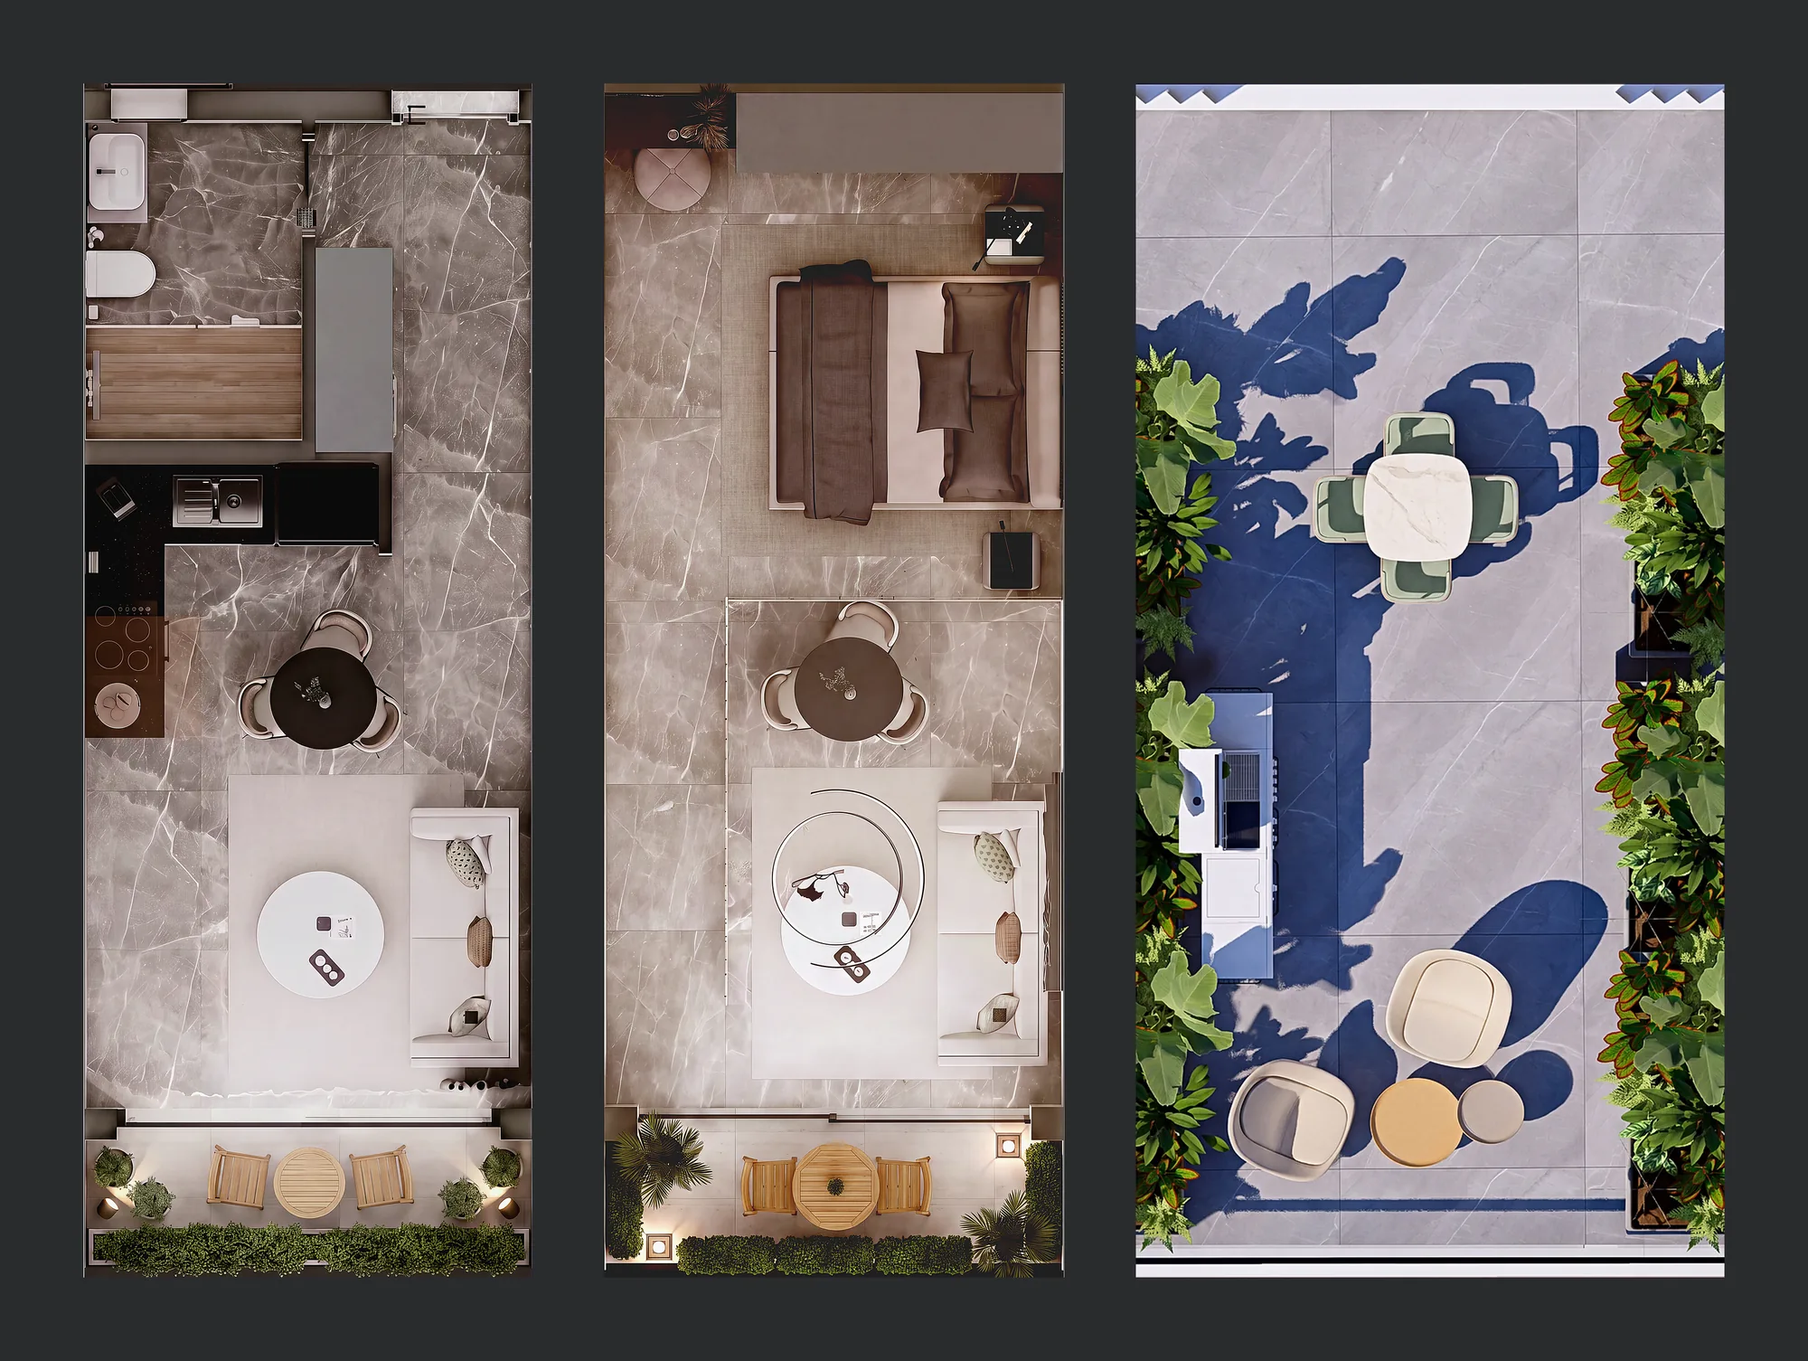
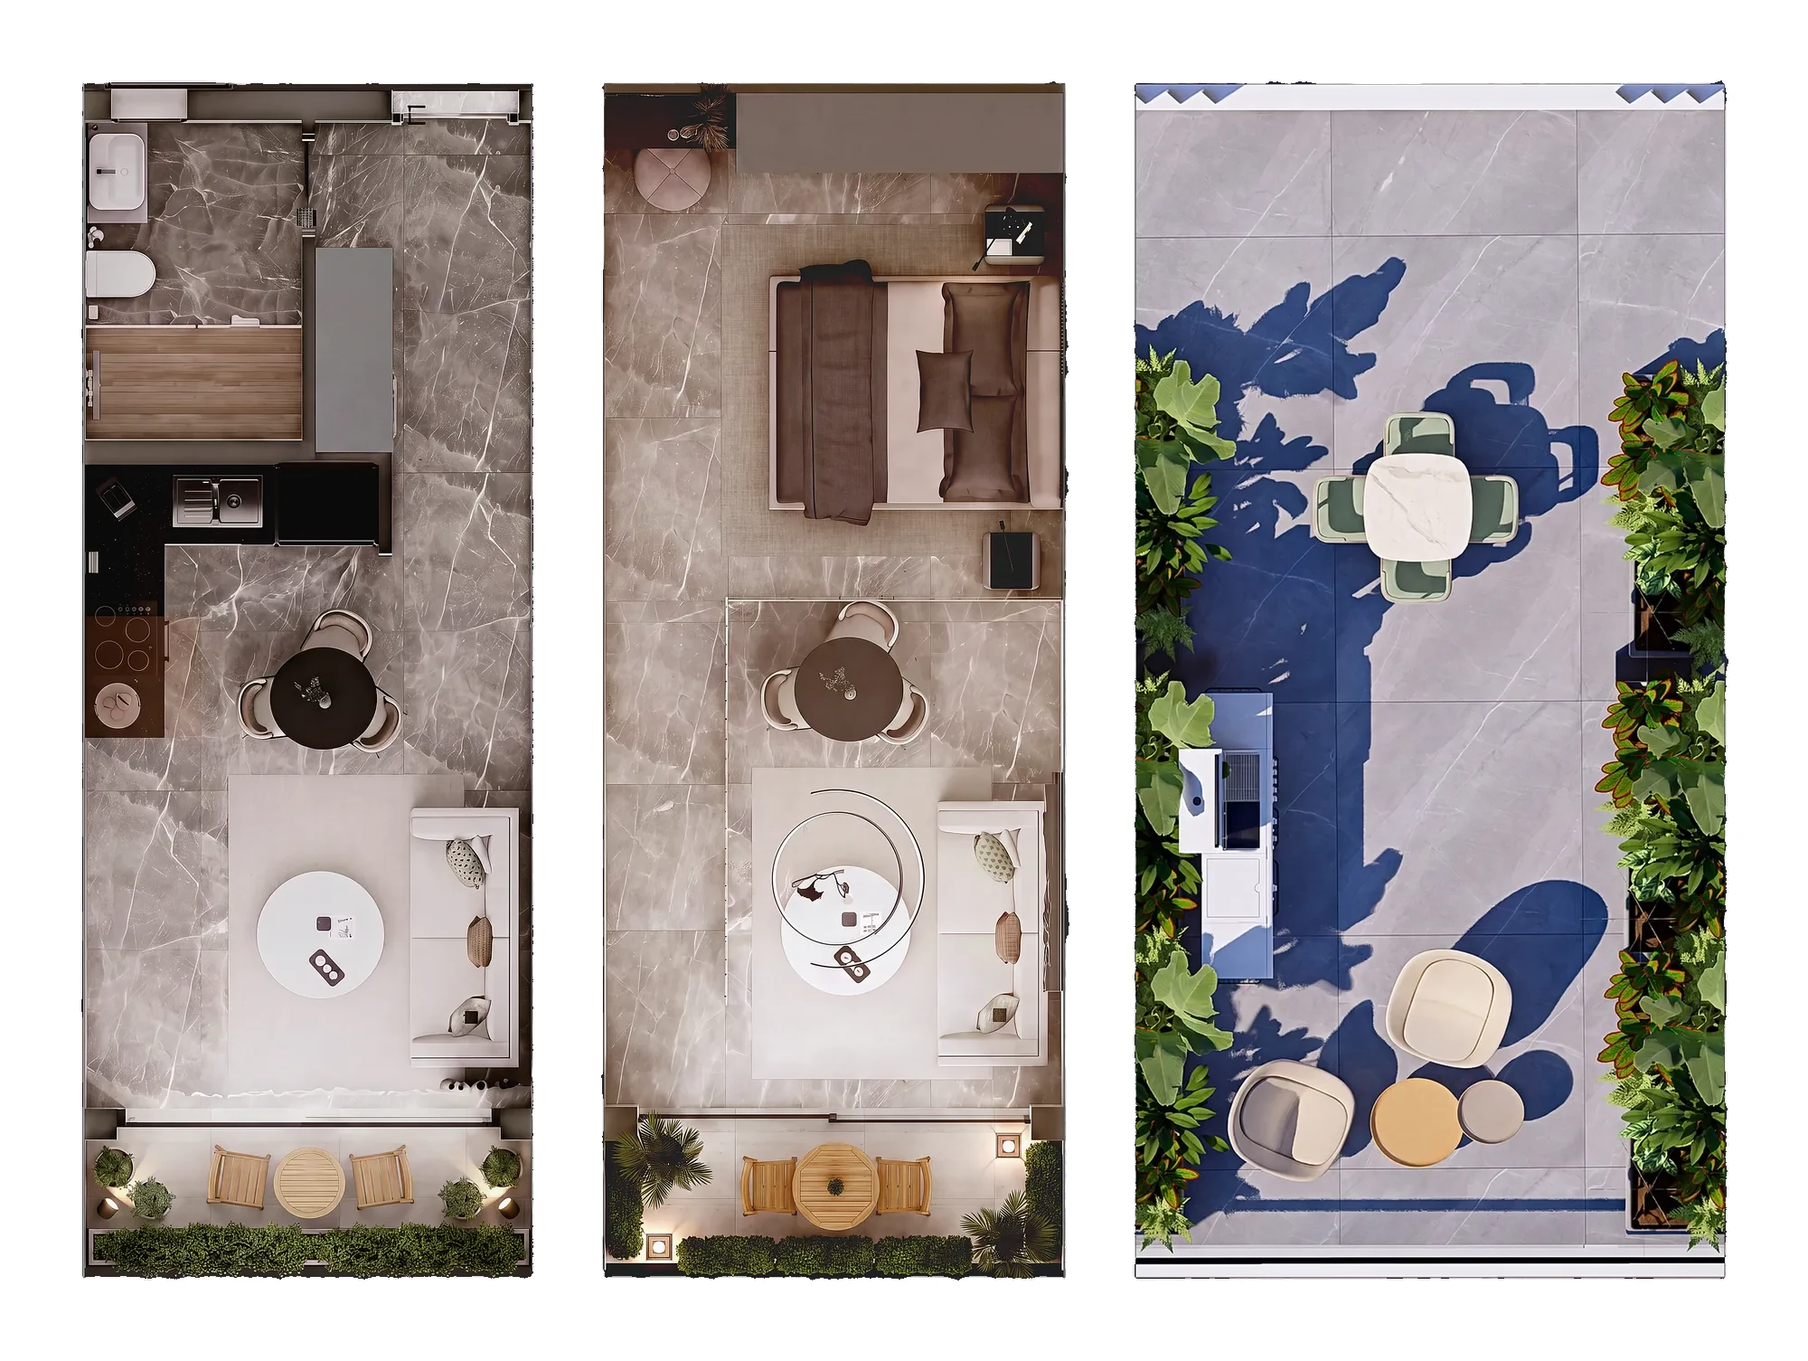
Proje sayfaları tek dil: aynı renkler, aynı boyutlar, aynı kat planı kutusu
- Kartlar (öne çıkan bilgiler, olanaklar): mercan çeşitleme kaldırıldı; simge, köşe ışığı ve alt çizgi her kartta turkuaz, değer her kartta koyu (değerlerin yarısı turkuaz yarısı koyuydu). Öne çıkan bilgilerde değer alanı iki satır yer tutar: uzun değer sarınca kart boyu projeden projeye değişmez
- Genel bakış madde imleri ve etiketler, konum mesafeleri ve güncelleme maddeleri tek renk (dönüşümlü mercan yok); 'devam ediyor' durum noktası anlamı için mercan kaldı
- Kat planları: bütün projelerde beyaz kutu. Lagoon Verde plan görsellerinin koyu zemini beyaza çevrildi (dış hat kapatılıp boşluklar dolduruldu, kenarlar harmanlandı); PlanVariant.tone='dark' kaldırıldı
- Kat planı bölümü masaüstünde her projede 645 px (Lagoon Verde 541, Perla II 707 idi); 8 satırdan uzun tablolar sık dizilir

Changed region(s): [[0.0, 0.0, 1.0, 1.0]]

diff --git a/lib/azure/projects/lagoon-verde.tsx b/lib/azure/projects/lagoon-verde.tsx
@@ -143,7 +143,6 @@ export const LAGOON_VERDE: ProjectData = {
             {
               name: "Studio Residence",
               image: "/azure/interiors/lagoon-verde/plans/studio.webp",
-              tone: "dark",
               areas: [
                 { label: "Oturma Odası", value: "29,36 m²" },
                 { label: "WC - Banyo", value: "5,48 m²" },
@@ -171,7 +170,6 @@ export const LAGOON_VERDE: ProjectData = {
             {
               name: "Loft Residence",
               image: "/azure/interiors/lagoon-verde/plans/loft.webp",
-              tone: "dark",
               areas: [
                 { label: "Oturma Odası", value: "25,57 m²" },
                 { label: "WC - Banyo", value: "5,48 m²" },
@@ -200,7 +198,6 @@ export const LAGOON_VERDE: ProjectData = {
             {
               name: "Roof Residence",
               image: "/azure/interiors/lagoon-verde/plans/roof.webp",
-              tone: "dark",
               areas: [
                 { label: "Oturma Odası", value: "33,35 m²" },
                 { label: "WC - Banyo", value: "4,77 m²" },
@@ -233,7 +230,6 @@ export const LAGOON_VERDE: ProjectData = {
             {
               name: "Garden Residence",
               image: "/azure/interiors/lagoon-verde/plans/garden.webp",
-              tone: "dark",
               areas: [
                 { label: "Oturma Odası", value: "37,42 m²" },
                 { label: "WC - Banyo", value: "5,15 m²" },
@@ -450,7 +446,6 @@ export const LAGOON_VERDE: ProjectData = {
             {
               name: "Studio Residence",
               image: "/azure/interiors/lagoon-verde/plans/studio.webp",
-              tone: "dark",
               areas: [
                 { label: "Living Room", value: "29.36 m²" },
                 { label: "WC - Bathroom", value: "5.48 m²" },
@@ -478,7 +473,6 @@ export const LAGOON_VERDE: ProjectData = {
             {
               name: "Loft Residence",
               image: "/azure/interiors/lagoon-verde/plans/loft.webp",
-              tone: "dark",
               areas: [
                 { label: "Living Room", value: "25.57 m²" },
                 { label: "WC - Bathroom", value: "5.48 m²" },
@@ -507,7 +501,6 @@ export const LAGOON_VERDE: ProjectData = {
             {
               name: "Roof Residence",
               image: "/azure/interiors/lagoon-verde/plans/roof.webp",
-              tone: "dark",
               areas: [
                 { label: "Living Room", value: "33.35 m²" },
                 { label: "WC - Bathroom", value: "4.77 m²" },
@@ -540,7 +533,6 @@ export const LAGOON_VERDE: ProjectData = {
             {
               name: "Garden Residence",
               image: "/azure/interiors/lagoon-verde/plans/garden.webp",
-              tone: "dark",
               areas: [
                 { label: "Living Room", value: "37.42 m²" },
                 { label: "WC - Bathroom", value: "5.15 m²" },
@@ -757,7 +749,6 @@ export const LAGOON_VERDE: ProjectData = {
             {
               name: "Studio Residence",
               image: "/azure/interiors/lagoon-verde/plans/studio.webp",
-              tone: "dark",
               areas: [
                 { label: "Wohnzimmer", value: "29,36 m²" },
                 { label: "WC - Bad", value: "5,48 m²" },
@@ -785,7 +776,6 @@ export const LAGOON_VERDE: ProjectData = {
             {
               name: "Loft Residence",
               image: "/azure/interiors/lagoon-verde/plans/loft.webp",
-              tone: "dark",
               areas: [
                 { label: "Wohnzimmer", value: "25,57 m²" },
                 { label: "WC - Bad", value: "5,48 m²" },
@@ -814,7 +804,6 @@ export const LAGOON_VERDE: ProjectData = {
             {
               name: "Roof Residence",
               image: "/azure/interiors/lagoon-verde/plans/roof.webp",
-              tone: "dark",
               areas: [
                 { label: "Wohnzimmer", value: "33,35 m²" },
                 { label: "WC - Bad", value: "4,77 m²" },
@@ -847,7 +836,6 @@ export const LAGOON_VERDE: ProjectData = {
             {
               name: "Garden Residence",
               image: "/azure/interiors/lagoon-verde/plans/garden.webp",
-              tone: "dark",
               areas: [
                 { label: "Wohnzimmer", value: "37,42 m²" },
                 { label: "WC - Bad", value: "5,15 m²" },
@@ -1064,7 +1052,6 @@ export const LAGOON_VERDE: ProjectData = {
             {
               name: "Studio Residence",
               image: "/azure/interiors/lagoon-verde/plans/studio.webp",
-              tone: "dark",
               areas: [
                 { label: "Гостиная", value: "29,36 m²" },
                 { label: "Санузел", value: "5,48 m²" },
@@ -1092,7 +1079,6 @@ export const LAGOON_VERDE: ProjectData = {
             {
               name: "Loft Residence",
               image: "/azure/interiors/lagoon-verde/plans/loft.webp",
-              tone: "dark",
               areas: [
                 { label: "Гостиная", value: "25,57 m²" },
                 { label: "Санузел", value: "5,48 m²" },
@@ -1121,7 +1107,6 @@ export const LAGOON_VERDE: ProjectData = {
             {
               name: "Roof Residence",
               image: "/azure/interiors/lagoon-verde/plans/roof.webp",
-              tone: "dark",
               areas: [
                 { label: "Гостиная", value: "33,35 m²" },
                 { label: "Санузел", value: "4,77 m²" },
@@ -1154,7 +1139,6 @@ export const LAGOON_VERDE: ProjectData = {
             {
               name: "Garden Residence",
               image: "/azure/interiors/lagoon-verde/plans/garden.webp",
-              tone: "dark",
               areas: [
                 { label: "Гостиная", value: "37,42 m²" },
                 { label: "Санузел", value: "5,15 m²" },
@@ -1371,7 +1355,6 @@ export const LAGOON_VERDE: ProjectData = {
             {
               name: "Studio Residence",
               image: "/azure/interiors/lagoon-verde/plans/studio.webp",
-              tone: "dark",
               areas: [
                 { label: "Salon", value: "29,36 m²" },
                 { label: "WC - łazienka", value: "5,48 m²" },
@@ -1399,7 +1382,6 @@ export const LAGOON_VERDE: ProjectData = {
             {
               name: "Loft Residence",
               image: "/azure/interiors/lagoon-verde/plans/loft.webp",
-              tone: "dark",
               areas: [
                 { label: "Salon", value: "25,57 m²" },
                 { label: "WC - łazienka", value: "5,48 m²" },
@@ -1428,7 +1410,6 @@ export const LAGOON_VERDE: ProjectData = {
             {
               name: "Roof Residence",
               image: "/azure/interiors/lagoon-verde/plans/roof.webp",
-              tone: "dark",
               areas: [
                 { label: "Salon", value: "33,35 m²" },
                 { label: "WC - łazienka", value: "4,77 m²" },
@@ -1461,7 +1442,6 @@ export const LAGOON_VERDE: ProjectData = {
             {
               name: "Garden Residence",
               image: "/azure/interiors/lagoon-verde/plans/garden.webp",
-              tone: "dark",
               areas: [
                 { label: "Salon", value: "37,42 m²" },
                 { label: "WC - łazienka", value: "5,15 m²" },

diff --git a/app/components/azure/project/cards.css b/app/components/azure/project/cards.css
@@ -9,22 +9,22 @@
 }
 /* köşede yumuşak renk ışığı (görselin üstünde değil, kart zemininde); üzerine gelince büyür */
 .az-fact::before { content: ""; position: absolute; right: -60px; top: -60px; width: 200px; height: 200px; border-radius: 50%; background: radial-gradient(circle, rgba(42, 169, 179, .2), transparent 68%); z-index: -1; transition: transform .9s var(--ease); }
-.az-fact.coral::before { background: radial-gradient(circle, rgba(241, 92, 52, .16), transparent 68%); }
 /* alt çizgi: belirince kısmen, üzerine gelince tam dolar */
 .az-fact::after { content: ""; position: absolute; left: clamp(20px, 2.2vw, 28px); right: clamp(20px, 2.2vw, 28px); bottom: 0; height: 2px; border-radius: 2px; background: linear-gradient(90deg, var(--sea), var(--aqua)); transform: scaleX(0); transform-origin: left; transition: transform 1s var(--ease) .2s; }
-.az-fact.coral::after { background: linear-gradient(90deg, var(--coral), #f7a07f); }
 .az-fact.in::after { transform: scaleX(.3); }
 .az-fact:hover { transform: translateY(-6px); box-shadow: 0 30px 70px rgba(13, 35, 38, .12); }
 .az-fact:hover::before { transform: scale(1.35); }
 .az-fact:hover::after { transform: scaleX(1); transition-delay: 0s; }
 .az-fact .hd { display: flex; align-items: center; justify-content: space-between; gap: 12px; }
 .az-fact .ic { display: grid; place-items: center; width: 46px; height: 46px; border-radius: 50%; background: #fff; color: var(--sea); box-shadow: 0 6px 18px rgba(13, 35, 38, .07); transition: transform .5s var(--ease); }
-.az-fact.coral .ic { color: var(--coral); }
 .az-fact:hover .ic { transform: rotate(-8deg) scale(1.06); }
 .az-fact .no { font-size: 12px; letter-spacing: .1em; color: var(--ink-40); font-weight: 600; font-variant-numeric: tabular-nums; }
 .az-fact small { display: block; margin-top: clamp(16px, 1.8vw, 24px); font-size: 11px; letter-spacing: .12em; text-transform: uppercase; color: var(--ink-60); font-weight: 600; }
 .az-fact b { display: flex; align-items: center; margin-top: 8px; font-family: var(--font-display), sans-serif; font-weight: 400; font-size: clamp(24px, 2.4vw, 38px); line-height: 1.1; letter-spacing: -.02em; color: var(--ink); overflow-wrap: anywhere; font-variant-numeric: tabular-nums; }
-.az-fact.coral b { color: var(--sea); }
+/* tek renk dili: bütün kartlarda simge, ışık ve alt çizgi turkuaz, değer koyu (eskiden kartların yarısı mercan, değerler karışık renkteydi).
+   Öne çıkan bilgilerde değer alanı her projede iki satır yer tutar: uzun değer sarınca kart boyu projeden projeye değişmesin */
+.az-facts .az-fact b { min-height: 2.2em; align-items: flex-start; }
+.az-facts .az-fact b .live { margin-top: .32em; }
 /* durum noktası: devam ediyorsa nabız gibi atar */
 .az-fact .live { flex: none; width: 11px; height: 11px; margin-right: 12px; border-radius: 50%; background: var(--coral); animation: az-live 1.8s ease-out infinite; }
 .az-fact .live.done { background: var(--sea); animation: none; box-shadow: 0 0 0 4px rgba(13, 101, 112, .15); }

diff --git a/app/azure.css b/app/azure.css
@@ -492,7 +492,7 @@ form.az-f { display: grid; grid-template-columns: 1fr 1fr; gap: 12px; padding: 2
 .az-hint { font-size: 12px; color: var(--ink-40); margin-top: 14px; }
 .az-note-sm { font-size: 12px; color: var(--ink-40); margin-top: 18px; }
 .az-tags span.s { background: rgba(13,101,112,.08); border-color: rgba(13,101,112,.18); color: var(--sea); }
-.az-tags span.c { background: rgba(241,92,52,.08); border-color: rgba(241,92,52,.2); color: var(--coral); }
+.az-tags span.c { background: rgba(13,101,112,.08); border-color: rgba(13,101,112,.18); color: var(--sea); } /* tek renk: etiketler dönüşümlü mercan değil */
 .az-pill { display: inline-flex; align-items: center; gap: 6px; padding: 7px 12px; border-radius: 999px; font-size: 12px; font-weight: 600; background: rgba(13,101,112,.08); color: var(--sea); border: 1px solid rgba(13,101,112,.16); cursor: pointer; font-family: inherit; text-decoration: none; line-height: 1.2; transition: background .3s, color .3s; white-space: nowrap; }
 .az-pill:hover { background: var(--sea); color: #fff; }
 .az-pill.c { background: rgba(241,92,52,.08); color: var(--coral); border-color: rgba(241,92,52,.18); }
@@ -524,7 +524,6 @@ form.az-f { display: grid; grid-template-columns: 1fr 1fr; gap: 12px; padding: 2
 .az-po .hl { list-style: none; margin: 22px 0 0; padding: 0; display: grid; gap: 10px; }
 .az-po .hl li { display: flex; gap: 12px; align-items: flex-start; font-size: 15px; color: var(--ink); }
 .az-po .hl li i { flex: 0 0 auto; width: 10px; height: 10px; border-radius: 50%; margin-top: 7px; background: var(--sea); }
-.az-po .hl li.c i { background: var(--coral); }
 .az-po .az-tags { margin-top: 22px; }
 .az-po .m { position: relative; min-height: 340px; background: var(--sea-deep); }
 .az-po .m > * { position: absolute; inset: 0; }
@@ -578,7 +577,6 @@ form.az-f { display: grid; grid-template-columns: 1fr 1fr; gap: 12px; padding: 2
 .az-up ul { list-style: none; padding: 0; margin: 18px 0 0; display: grid; gap: 8px; }
 .az-up li { display: flex; gap: 10px; font-size: 14px; color: var(--ink-60); }
 .az-up li i { flex: 0 0 auto; width: 8px; height: 8px; border-radius: 50%; background: var(--sea); margin-top: 7px; }
-.az-up li:nth-child(2n) i { background: var(--coral); }
 .az-up .cta { margin-top: 22px; }
 .az-up.soon .card { filter: blur(6px); pointer-events: none; user-select: none; }
 .az-up .ov { position: absolute; inset: 0; display: grid; place-items: center; padding: 20px; }

diff --git a/app/components/azure/meridian.css b/app/components/azure/meridian.css
@@ -102,8 +102,6 @@
 .mr-units .zoom { position: relative; display: block; flex: 1 1 auto; width: 100%; min-height: clamp(280px, 27vw, 420px); max-width: 100%; padding: 0; border: 1px solid var(--hair); border-radius: 22px; overflow: hidden; background: #fff; cursor: zoom-in; }
 .mr-units .zoom img { position: absolute; inset: 58px 18px 18px; width: calc(100% - 36px); height: calc(100% - 76px); object-fit: contain; animation: mr-fade .5s var(--ease); }
 .mr-units .zoom.photo img { inset: 0; width: 100%; height: 100%; object-fit: cover; }
-/* koyu sunum zeminli planlar: kutu zemini planla aynı antrasit, beyaz boşluk yok */
-.mr-units .zoom.dark { background: #2a2b2e; border-color: transparent; }
 @keyframes mr-fade { from { opacity: 0; } to { opacity: 1; } }
 .mr-units .zoom .go { position: absolute; right: 12px; top: 12px; display: inline-flex; align-items: center; gap: 6px; padding: 8px 12px; border-radius: 999px; background: var(--paper); border: 1px solid var(--hair); font-family: var(--font-sans); font-size: 11px; font-weight: 600; letter-spacing: .1em; text-transform: uppercase; color: var(--ink); }
 .mr-units .fig .nav { position: absolute; left: 50%; bottom: 12px; transform: translateX(-50%); z-index: 2; display: flex; align-items: center; justify-content: center; gap: 12px; padding: 4px; border-radius: 999px; background: var(--paper); border: 1px solid var(--hair); }
@@ -114,6 +112,9 @@
 .mr-units .tbl .stack { display: grid; }
 .mr-units .tbl .stack > .pane { grid-area: 1 / 1; min-width: 0; }
 .mr-units .tbl .stack > .pane:not(.on) { visibility: hidden; }
+/* uzun tablo (8+ satır) sık dizilir; masaüstünde bölüm her projede aynı yükseklikte (tip ve proje değişince boy oynamaz) */
+.mr-units .tbl .pane.dense dl > div { padding: 7px 0; }
+@media (min-width: 1101px) { .mr-units { min-height: 645px; } }
 .mr-units .tbl h3 { font-size: clamp(24px, 2.2vw, 32px); font-weight: 400; letter-spacing: -.025em; }
 .mr-units .tbl .vars { display: flex; gap: 6px; flex-wrap: wrap; align-items: center; margin-top: 12px; }
 .mr-units .tbl .vars button { padding: 7px 13px; border-radius: 999px; border: 1px solid var(--hair); background: none; font-family: var(--font-sans); font-size: 11px; font-weight: 600; letter-spacing: .1em; text-transform: uppercase; color: var(--ink-60); cursor: pointer; }

diff --git a/app/components/azure/project/FloorPlans.tsx b/app/components/azure/project/FloorPlans.tsx
@@ -72,7 +72,7 @@ export default function FloorPlans({ d, name, id, locale, cta = {} }: { d: Proje
 
           {/* orta: görsel kutusu; geçiş, büyüt ve oklar kutunun içinde (kutu üst / alt çizgiye oturur) */}
           <div className="fig">
-            <button type="button" className={`zoom${showInterior ? " photo" : v.tone === "dark" ? " dark" : ""}`} aria-label={t.enlargeAria}
+            <button type="button" className={`zoom${showInterior ? " photo" : ""}`} aria-label={t.enlargeAria}
               onClick={() => setLb(showInterior ? { images: gallery, idx: gi } : { images: [v.image], idx: 0 })}>
               {/* eslint-disable-next-line @next/next/no-img-element */}
               <img key={showInterior ? gallery[gi] : v.image} src={showInterior ? gallery[gi] : v.image} alt={showInterior ? t.galleryImage(gi + 1) : alt} loading={showInterior ? "lazy" : "eager"} decoding="async" />
@@ -101,7 +101,7 @@ export default function FloorPlans({ d, name, id, locale, cta = {} }: { d: Proje
               {d.plans.flatMap((p, pIdx) => p.variants.map((x, xIdx) => {
                 const on = pIdx === pi && x === v;
                 return (
-                  <div key={`${p.id}-${x.name}`} className={on ? "pane on" : "pane"} aria-hidden={on ? undefined : true} inert={!on}>
+                  <div key={`${p.id}-${x.name}`} className={`pane${on ? " on" : ""}${x.areas.length > 8 ? " dense" : ""}`} aria-hidden={on ? undefined : true} inert={!on}>
                     <h3>{variantTitle(p, x.name)}</h3>
                     {(p.variants.length > 1 || x.note || p.note) && (
                       <div className="vars">

diff --git a/app/components/azure/project/Location.tsx b/app/components/azure/project/Location.tsx
@@ -37,7 +37,7 @@ export default function Location({ d, name, id, locale }: { d: ProjectLocation; 
               <ul className="az-dist">
                 {d.distances.map((x, i) => (
                   <li key={x.label + i} style={{ ["--w" as string]: Math.max(0.08, meters(x) / max).toFixed(2) } as React.CSSProperties} title={x.note}>
-                    <span>{x.label}</span><b style={x.accent === "coral" ? { color: "var(--coral)" } : undefined}>{formatDistance(x)}</b><i />
+                    <span>{x.label}</span><b>{formatDistance(x)}</b><i />
                   </li>
                 ))}
               </ul>

diff --git a/lib/azure/project-types.ts b/lib/azure/project-types.ts
@@ -72,7 +72,6 @@ export type PlanVariant = {
   name: string;
   note?: string;
   image: string;
-  tone?: "dark";                                 // koyu sunum zeminli plan: kutu zemini de koyu (beyaz boşluk kalmaz)
   pdf?: string;
   areas: AreaRow[];
   gallery?: string[];
